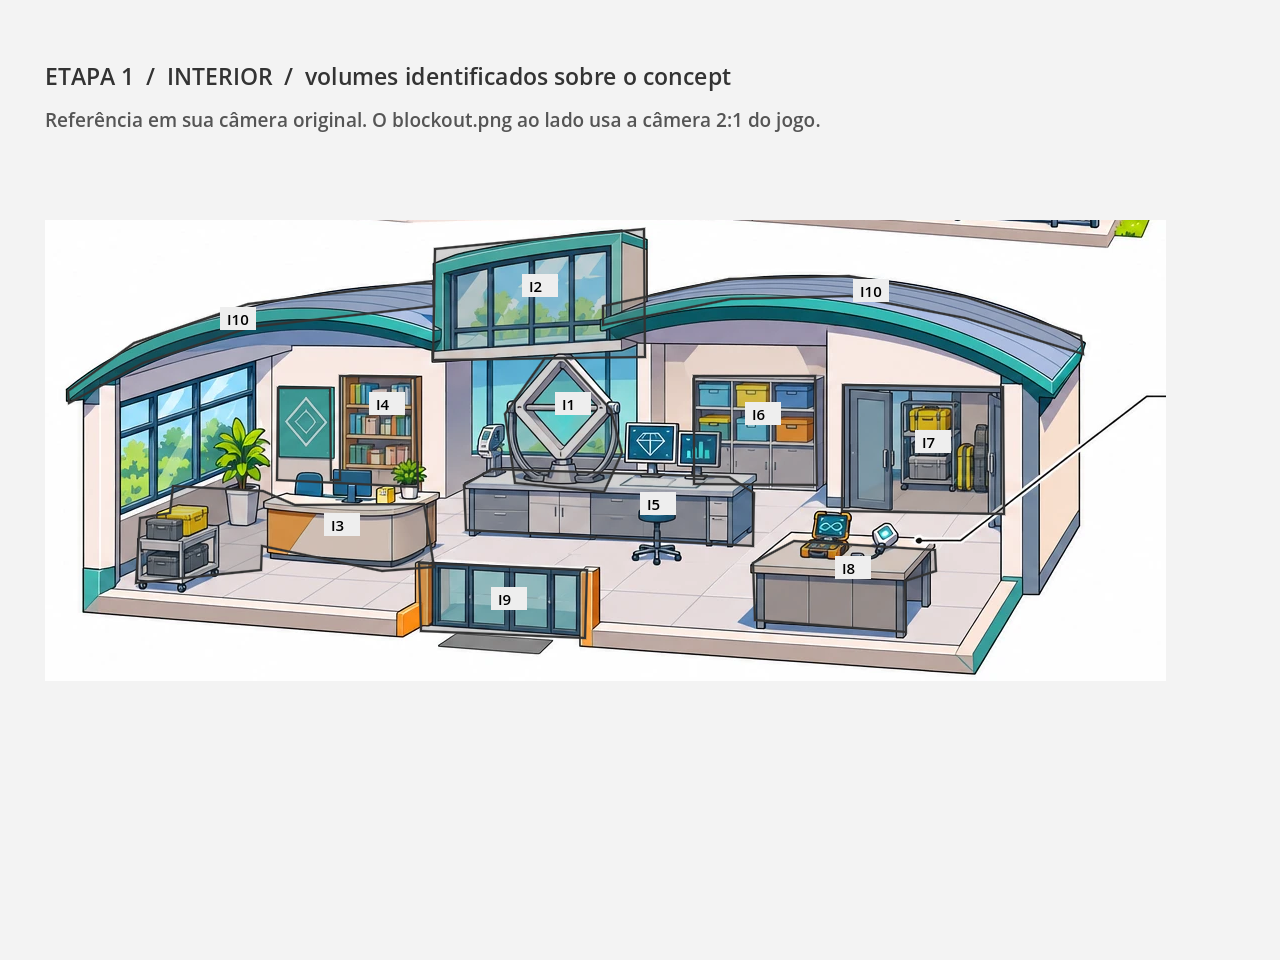
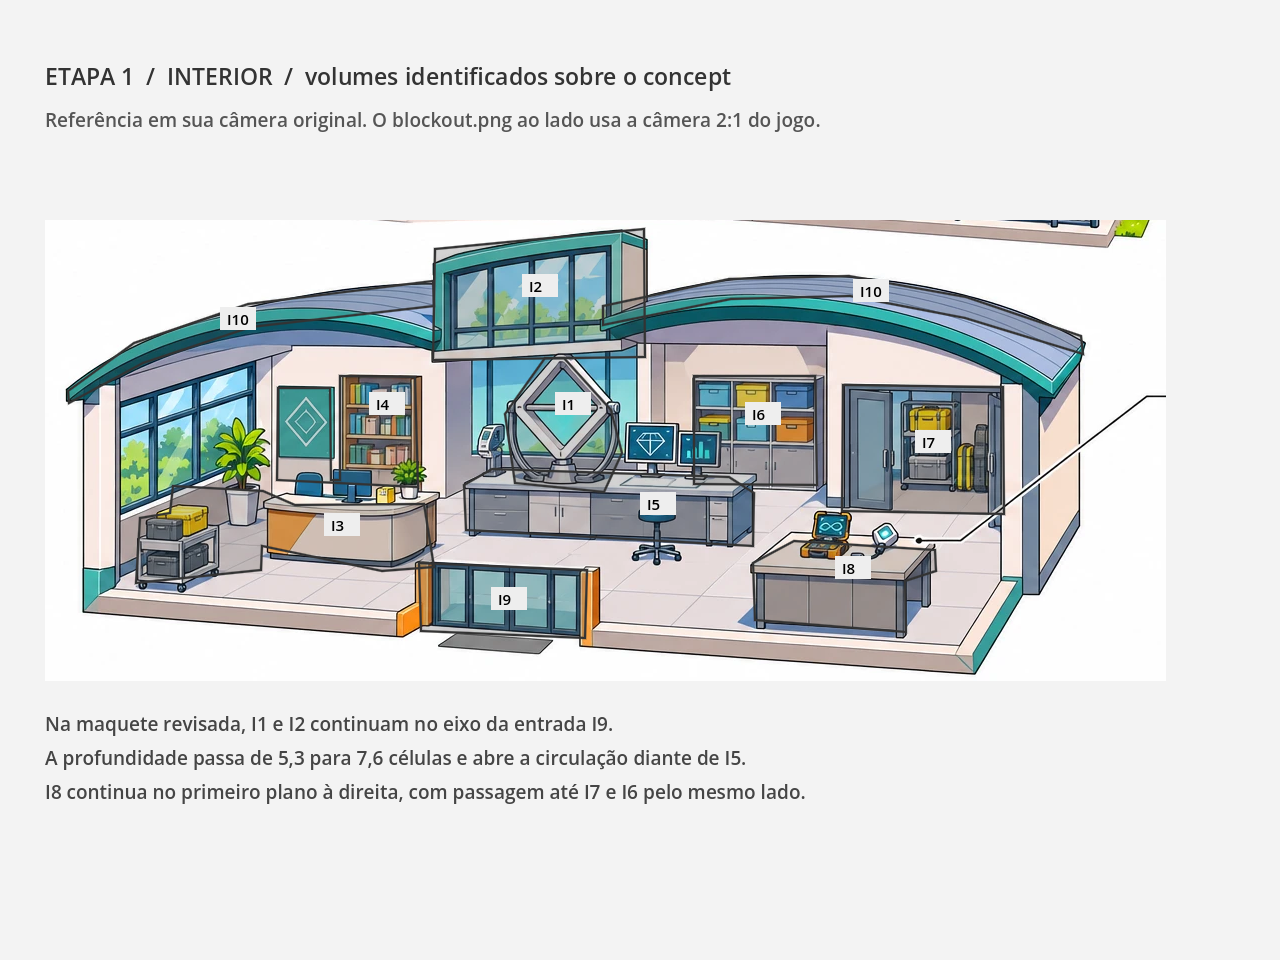
Laboratório v2: blockout interno ampliado

Changed region(s): [[0.0312, 0.75, 0.625, 0.8438]]

diff --git a/art/professor-laboratorio-v2/interior/traducao.md b/art/professor-laboratorio-v2/interior/traducao.md
@@ -5,7 +5,7 @@ concept-detalhe-maleta.png. O interior corresponde ao edifício da fachada.
 
 ## Peça central, primeiro elemento do blockout
 
-I1 foi montado primeiro: losango de 86 px em suporte de arcos, sobre bancada de 42 px. O aparelho alcança aproximadamente 151 px a partir do piso, sob o pé-direito central de 200 px. A bancada mede cerca de 4,23 × 1,16 células.
+I1 foi montado primeiro: losango de 86 px em suporte de arcos, sobre bancada de 42 px. O aparelho alcança aproximadamente 151 px a partir do piso, sob o pé-direito central de 200 px. A bancada mede 4,60 × 1,30 células.
 
 ## Elementos obrigatórios
 
@@ -25,28 +25,19 @@ I1 foi montado primeiro: losango de 86 px em suporte de arcos, sobre bancada de 
 Os dez elementos estão identificados na referência. O checklist da etapa 2
 terá a presença de cada um conferida contra o quadro-chave.
 
-## Planta por zonas · etapa 1
+## Planta por zonas · etapa 1 revisada
 
-Envelope interno de apresentação: **12,4 × 5,3 células**, na régua nativa do Kael. x cresce à direita, d para o fundo. Corte das paredes dianteiras com as duas abóbadas preservadas. Geometria para aprovação antes de pintura e colisões.
+A planta cresce de **12,4 × 5,3** para **13 × 7,6 células** (de 65,72 para 98,8 células²). O crescimento se concentra no fundo e dá mais área livre na frente das bancadas. Cada célula usa a projeção nativa de 64 × 32 px. Na planta, u cresce para a direita e d, para o fundo.
 
-```text
-FUNDO d=5,3
-+----------------+-----------------------+----------------------+
-| I4 livros      | I2 torre / janela alta| I6 caixas / estoque |
-| quadro-losango |                       | I7 porta / maletas  |
-+----------------+-----------------------+----------------------+
-| I3 recepção    |       I1 LOSANGO      | acesso ao estoque   |
-| monitor/planta | I5 bancada / monitores|                     |
-| carrinho       | banqueta              |                     |
-+----------------+-----------------------+----------------------+
-| Kael / chegada | I9 vidro / capacho    | I8 maleta e sensor  |
-+----------------+-----------------------+----------------------+
-FRENTE d=0 · I10 paredes cortadas / abóbadas em corte
-```
+| Zona | Posição na planta | Decisão |
+| --- | --- | --- |
+| I1 / I2 / I5 | Pesquisa em u 4,30–8,90 e d 4,35–5,65 | O losango mantém o topo a 151 px. A torre, o aparelho e o centro do vão da entrada alinham-se em u 6,30. A janela alta começa a 110 px e a torre chega a 200 px. |
+| I3 / I4 | Recepção em u 0,95–3,20 e d 4,35–5,60 | O balcão acompanha o recuo da pesquisa. Carrinho e planta encostam à esquerda, com quadro e estante no fundo. |
+| I6 / I7 | Estante entre u 9,20 e 10,76; estoque público em u 10,95–13,00 a partir de d 5,55 | A estante tem corredor próprio e o vão de 1,55 célula leva às maletas. A parede direita do estoque aparece em corte. |
+| I8 | Mesa em u 10,55–12,55 e d 1,10–2,45 | Maleta aberta, sensor e cabo ficam no primeiro plano à direita. O percurso segue pelo lado esquerdo da mesa. |
+| I9 / I10 | Chegada em d 0 | Porta frontal de vidro, capacho, paredes baixas no corte e trechos visíveis das duas abóbadas. |
 
-Recepção x≈0,7..3,5; pesquisa x≈4,1..8,4; estoque x≈8,5..12,4. Bancada principal d≈2,9..4,1; mesa de equipamento d≈1..2. Rota de intenção: entrada → frente da bancada → recepção/estoque, contornando os móveis. A faixa central diante da bancada tem aproximadamente 1,3 célula de profundidade; validação dimensional no portão com Kael visível.
-
-A sala dos fundos é apenas o estoque público do concept. Nenhum espaço adicional de revelação narrativa é representado.
+A bancada central fica a 4,35 células da porta. A banqueta é o primeiro móvel na faixa central e fica a 3,10 células da frente. A abertura entre os dois balcões mede 1,10 célula. A [planta com percursos](planta.png) mostra a chegada, os acessos aos postos de trabalho e o vão do estoque.
 
 ## Simplificações permitidas
 
@@ -88,6 +79,12 @@ Célula 64 × 32 px; projeção 2:1. Kael nativo, referência de 70 px (1,46 des
 As amostras de cor acima identificam materiais do concept. A pintura será remapeada para a paleta dos personagens e sua extensão de cenário conforme o guia. Na etapa 1, somente cinzas, com Kael original como régua.
 ## Compatibilidade e portão
 
-Mesma régua nativa da fachada. O gerador mapeia as coordenadas de construção da planta para o envelope de 12,4 × 5,3, mantendo as alturas de equipamentos e portas. Sala de produção `professor-home`, gatilhos, colisões e saves pertencem à etapa de integração.
+A maquete usa o Kael original à escala 1× e a câmera 2:1. O interior é uma cena separada (professor-home), com o centro da porta alinhado ao eixo da arquitetura no corte. As medidas descrevem a planta de apresentação. As formas de colisão e os gatilhos pertencem à integração.
 
-Etapa 1: `blockout.png` e `blockout-sobre-concept.png`. Aguardando aprovação da planta, peça central e corte junto à fachada. Ver `../ETAPA-1.md`.
+Etapa 1 revisada para aprovação: [maquete](blockout.png), [planta](planta.png) e [contornos sobre o concept](blockout-sobre-concept.png). Os contornos identificam I1–I10 na perspectiva original do designer. A maquete mostra os mesmos elementos na projeção do jogo.
+
+Para regenerar as três pranchas no Godot:
+
+```powershell
+godot --path godot --script tools/laboratorio_v2_blockout.gd --rendering-method gl_compatibility -- --interior
+```

diff --git a/art/professor-laboratorio-v2/ESTADO.md b/art/professor-laboratorio-v2/ESTADO.md
@@ -10,7 +10,7 @@
 
 ## Interior
 
-O primeiro blockout ficou apertado. Está pendente a sua ampliação e uma nova aprovação antes do acabamento.
+A maquete revisada amplia a planta para 13 × 7,6 células. [Blockout](interior/blockout.png), [planta por zonas](interior/planta.png) e [contornos sobre o concept](interior/blockout-sobre-concept.png) aguardam aprovação antes do quadro-chave.
 
 ## Pendências do pedido geral
 
